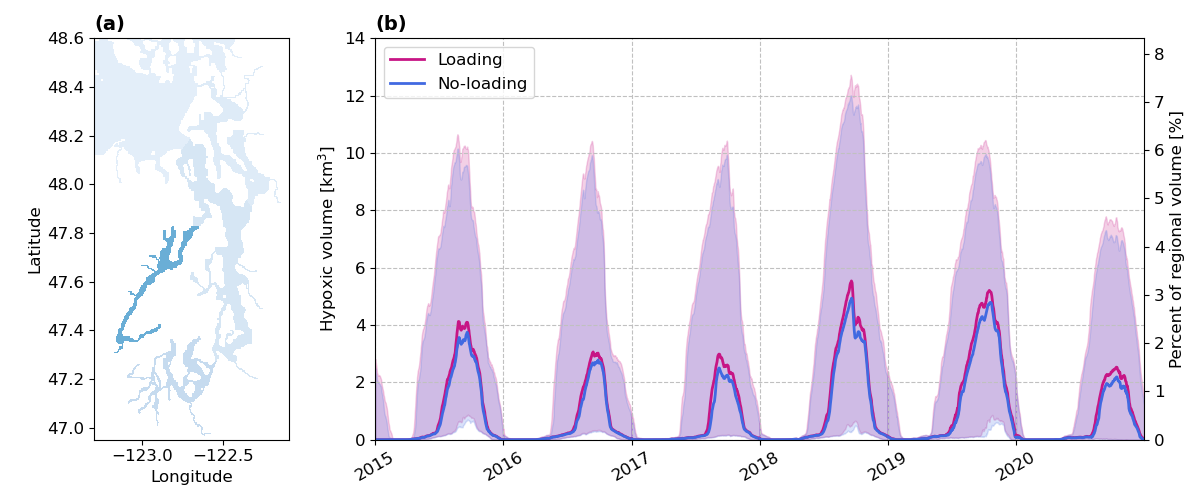
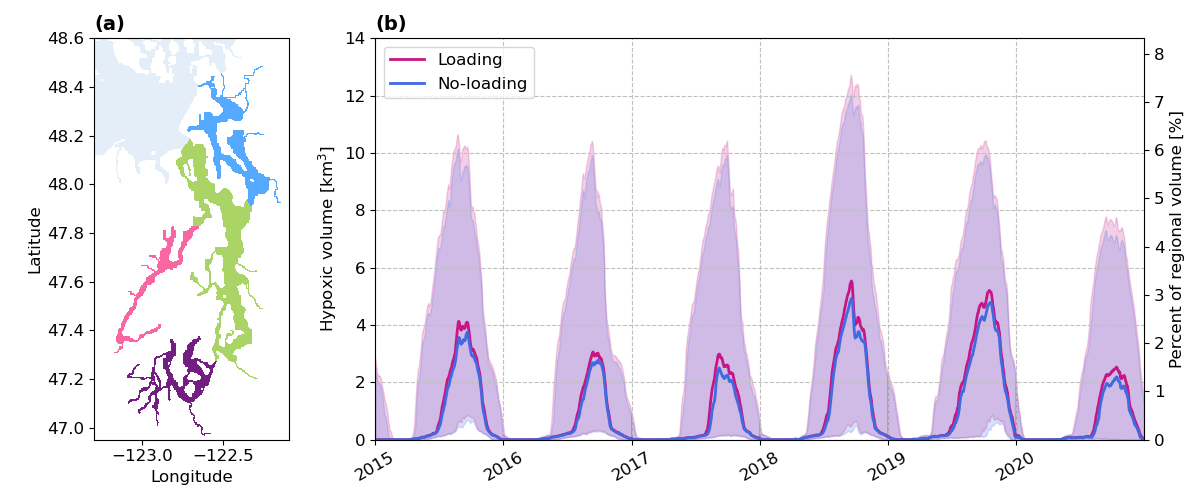
edit hypvol_subbasin_comparison

Changed region(s): [[0.0925, 0.15, 0.2467, 0.81], [0.0925, 0.57, 0.1233, 0.69]]

diff --git a/hypvol_for_intrmdl_cmprsn/hypvol_subbasin_comparison.py b/hypvol_for_intrmdl_cmprsn/hypvol_subbasin_comparison.py
@@ -10,6 +10,7 @@ import numpy as np
 import xarray as xr
 import pandas as pd
 import matplotlib.pylab as plt
+import matplotlib.cm as cm
 
 from lo_tools import Lfun
 from lo_tools import plotting_functions as pfun
@@ -35,6 +36,7 @@ years =  ['2015','2016','2017','2018','2019','2020']
 
 # which  model run to look at?
 gtagexes = ['cas7_t1_x11ab','cas7_t1noDIN_x11ab']
+# gtagex cas7_t1noDIN_x11ab is no-loading, cas7_t1_x11ab is loading
 
 # # where to put output figures
 # out_dir = Ldir['LOo'] / 'chapter_2' / 'figures'
@@ -91,35 +93,51 @@ mask_ss = basin_mask_ds.mask_southsound.values
 mask_mb = basin_mask_ds.mask_mainbasin.values
 mask_wb = basin_mask_ds.mask_whidbeybasin.values
 
+# subbasin masks dictionary
+subbasin_masks = {
+    'PugetSound': mask_ps,
+    'HoodCanal': mask_hc,
+    'SouthSound': mask_ss,
+    'MainBasin': mask_mb,
+    'WhidbeyBasin': mask_wb
+}
+
 # initialize dictionary for hypoxic volume [km3]
 hyp_vol = {}
 water_volume = {}
 onemgL_vol = {}
 threemgL_vol = {}
+
 for year in years:
     for gtagex in gtagexes:
-        # get thicknesses
-        hyp_thick = hyp_thick_dict[gtagex+region+year]/1000 # [km]
-        water_depth_km = water_depth_dict[gtagex+region+year]/1000 # [km]
-        one_mgL_thick = one_mgL_thick_dict[gtagex+region+year]/1000 # [km]
-        three_mgL_thick = three_mgL_thick_dict[gtagex+region+year]/1000 # [km]
 
-        # apply Puget Sound mask and sum on every day of the year to get time series of volume
-        hyp_thick = hyp_thick * mask_ps
-        hyp_vol_timeseries = np.nansum(hyp_thick * DA, axis=(1, 2)) # km^3
-        hyp_vol[gtagex+region+year] = hyp_vol_timeseries
+        # get thicknesses (km)
+        hyp_thick = hyp_thick_dict[gtagex + region + year] / 1000
+        water_depth_km = water_depth_dict[gtagex + region + year] / 1000
+        one_mgL_thick = one_mgL_thick_dict[gtagex + region + year] / 1000
+        three_mgL_thick = three_mgL_thick_dict[gtagex + region + year] / 1000
 
-        water_depth_km = water_depth_km * mask_ps
-        water_vol_timeseries = np.nansum(water_depth_km * DA, axis=(1, 2)) # km^3
-        water_volume[gtagex+region+year] = water_vol_timeseries
+        for subbasin, mask in mask_dict.items():
 
-        one_mgL_thick = one_mgL_thick * mask_ps
-        onemgL_vol_timeseries = np.sum(one_mgL_thick * DA, axis=(1, 2)) # km^3
-        onemgL_vol[gtagex+region+year] = onemgL_vol_timeseries
+            # hypoxic volume
+            hyp_thick_masked = hyp_thick * mask
+            hyp_vol_timeseries = np.nansum(hyp_thick_masked * DA, axis=(1, 2))  # km^3
+            hyp_vol[gtagex + region + subbasin + year] = hyp_vol_timeseries
 
-        three_mgL_thick = three_mgL_thick * mask_ps
-        threemgL_vol_timeseries = np.sum(three_mgL_thick * DA, axis=(1, 2)) # km^3
-        threemgL_vol[gtagex+region+year] = threemgL_vol_timeseries
+            # total water volume
+            water_depth_masked = water_depth_km * mask
+            water_vol_timeseries = np.nansum(water_depth_masked * DA, axis=(1, 2))  # km^3
+            water_volume[gtagex + region + subbasin + year] = water_vol_timeseries
+            
+            # 1 mg/L volume 
+            one_mgL_masked = one_mgL_thick * mask
+            onemgL_vol_timeseries = np.nansum(one_mgL_masked * DA, axis=(1, 2))  # km^3
+            onemgL_vol[gtagex + region + subbasin + year] = onemgL_vol_timeseries
+
+            # 3 mg/L volume
+            three_mgL_masked = three_mgL_thick * mask
+            threemgL_vol_timeseries = np.nansum(three_mgL_masked * DA, axis=(1, 2))  # km^3
+            threemgL_vol[gtagex + region + subbasin + year] = threemgL_vol_timeseries
 
 
 # get lon and lat for making pcolormesh plot
@@ -170,34 +188,59 @@ ax0.set_title('(a)', fontsize = 14, loc='left', fontweight='bold')
 PS_vol = np.nansum(basin_mask_ds['h'].values/1000 * DA * mask_ps) # [km^3]
 print('Puget Sound volume: {} km3'.format(round(PS_vol,1)))
 
-# set values for looping
-colors = ['mediumvioletred','royalblue']
-linewidths = [2,2]
-alphas = [1,1]
-linestyles = ['-','-']
-labels=['Loading','No-loading']
 
-# plot timeseries
+subbasin_colors = {
+    'PugetSound': cm.Blues(0.7),
+    'HoodCanal': cm.RdPu(0.7),
+    'SouthSound': cm.magma(0.7),
+    'MainBasin': cm.summer(0.7),
+    'WhidbeyBasin': cm.cool(0.7),
+}
+
+subbasins = list(subbasin_colors.keys())
+
+gtagex = gtagexes[0]  # loading run only
+
+# make twin axis
+ax2 = ax1.twinx()
+
+# plot hypoxic volume timeseries
 for year in years:
-    # create time vector
-    startdate = year+'.01.01'
-    enddate = year+'.12.31'
-    dates = pd.date_range(start= startdate, end= enddate, freq= '1d')
-    dates_local = [pfun.get_dt_local(x) for x in dates]
-    # plot the loading and no-loading runs
-    for i,gtagex in enumerate(gtagexes):
-        # plot hypoxic volume timeseries
-        if year == '2015':
-            ax1.plot(dates_local, hyp_vol[gtagex+'pugetsoundDO'+year],color=colors[i],alpha=alphas[i],
-                     label=labels[i], linewidth=linewidths[i])
-            ax1.fill_between(dates_local, onemgL_vol[gtagex+'pugetsoundDO'+year],
-                             threemgL_vol[gtagex+'pugetsoundDO'+year],color=colors[i],alpha=0.2,linewidth=1)
-        else:
-            ax1.plot(dates_local, hyp_vol[gtagex+'pugetsoundDO'+year],color=colors[i],alpha=alphas[i],
-                     linewidth=linewidths[i])
-            ax1.fill_between(dates_local, onemgL_vol[gtagex+'pugetsoundDO'+year],
-                             threemgL_vol[gtagex+'pugetsoundDO'+year],color=colors[i],alpha=0.2,linewidth=1)
 
+    startdate = year + '.01.01'
+    enddate = year + '.12.31'
+    dates = pd.date_range(start=startdate, end=enddate, freq='1d')
+    dates_local = [pfun.get_dt_local(x) for x in dates]
+
+    for subbasin in subbasin_colors.keys():
+
+        key = gtagex + region + subbasin + year
+
+        # Puget Sound goes on right axis
+        if subbasin == 'PugetSound':
+            ax = ax2
+        else:
+            ax = ax1
+
+        # label only once
+        if year == years[0]:
+            ax.plot(dates_local, hyp_vol[key],
+                    color=subbasin_colors[subbasin],
+                    linewidth=2,
+                    label=subbasin)
+        else:
+            ax.plot(dates_local, hyp_vol[key],
+                    color=subbasin_colors[subbasin],
+                    linewidth=2)
+
+# axis labels
+ax1.set_ylabel('Hypoxic Volume (km$^3$) Subbasins')
+ax2.set_ylabel('Hypoxic Volume (km$^3$) Puget Sound')
+
+# combine legends from both axes
+lines1, labels1 = ax1.get_legend_handles_labels()
+lines2, labels2 = ax2.get_legend_handles_labels()
+ax1.legend(lines1 + lines2, labels1 + labels2, loc='upper right')
 
 # format figure
 ax1.grid(visible=True, axis='both', color='silver', linestyle='--')
@@ -214,46 +257,10 @@ dates_local = [pfun.get_dt_local(x) for x in dates]
 ax1.set_xlim([dates_local[0],dates_local[-1]])
 ax1.set_ylim([0,14])
 
-difference_all_years = []
-
-# plot timeseries
-for year in years:
-    # create time vector
-    startdate = year+'.01.01'
-    enddate = year+'.12.31'
-    dates = pd.date_range(start= startdate, end= enddate, freq= '1d')
-    dates_local = [pfun.get_dt_local(x) for x in dates]
-    # plot the difference between loading and no-loading runs
-    loading = hyp_vol['cas7_t1_x11ab'+'pugetsoundDO'+year]
-    noloading = hyp_vol['cas7_t1noDIN_x11ab'+'pugetsoundDO'+year]
-    difference_all_years = difference_all_years + (loading-noloading).tolist()
-
-# mean hypoxic volume difference
-difference_all_years_nozeros = [np.nan if diff == 0 else diff for diff in difference_all_years]
-mean_diff = np.nanmean(difference_all_years_nozeros)
-print('Mean difference in hypoxic volume = {} km3'.format(round(mean_diff,2)))
-
- # convert hypoxic volume to percent hypoxic volume
-percent = lambda hyp_vol: hyp_vol/PS_vol*100
-# get left axis limits
-ymin, ymax = ax1.get_ylim()
-# match ticks
-ax2 = ax1.twinx()
-ax2.set_ylim((percent(ymin),percent(ymax)))
-ax2.tick_params(axis='both', labelsize=12)
-ax2.plot([],[])
-for border in ['top','right','bottom','left']:
-    ax2.spines[border].set_visible(False)
-ax2.set_ylabel(r'Percent of regional volume [%]', fontsize=12)
-
 # add legend
 fills, labels1 = ax1.get_legend_handles_labels()
 lines, labels2 = ax2.get_legend_handles_labels()
 ax2.legend(fills + lines, labels1 + labels2, loc='upper left', fontsize=12)
-
-# print where figure is saved
-import os
-print(os.getcwd())
 
 plt.tight_layout()
 # plt.show()
